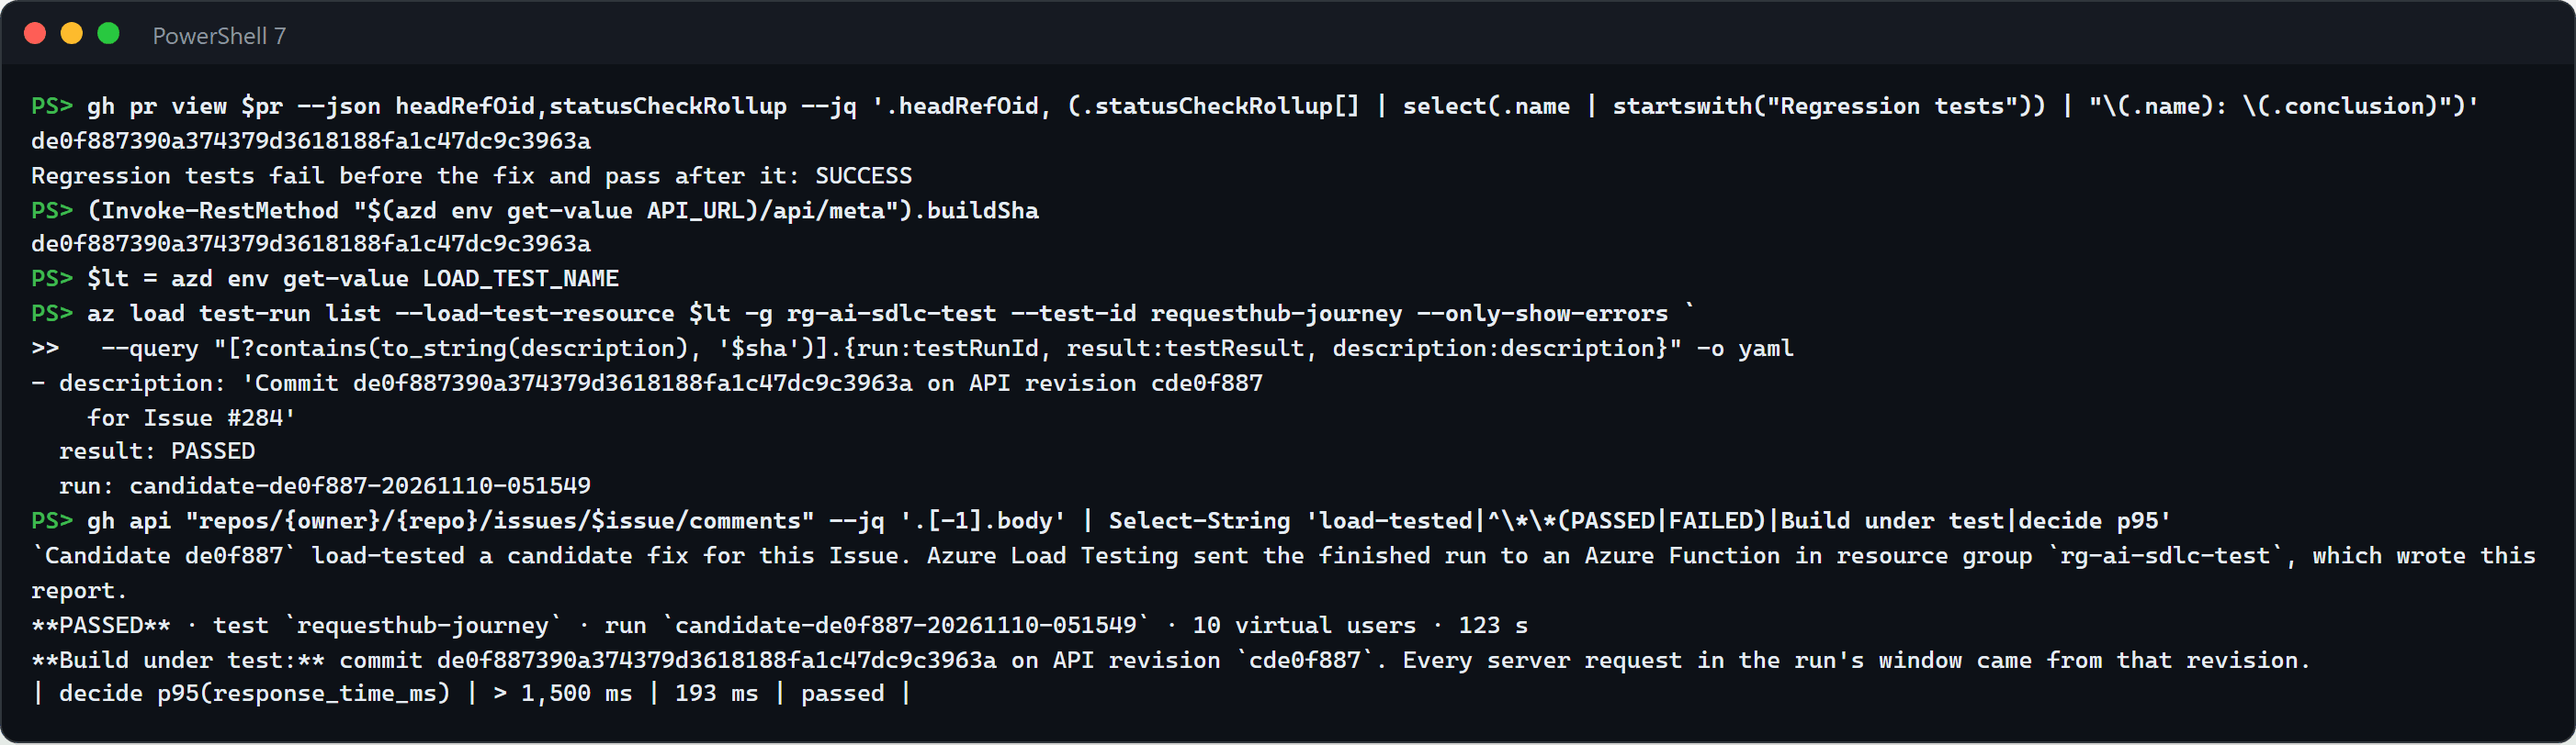
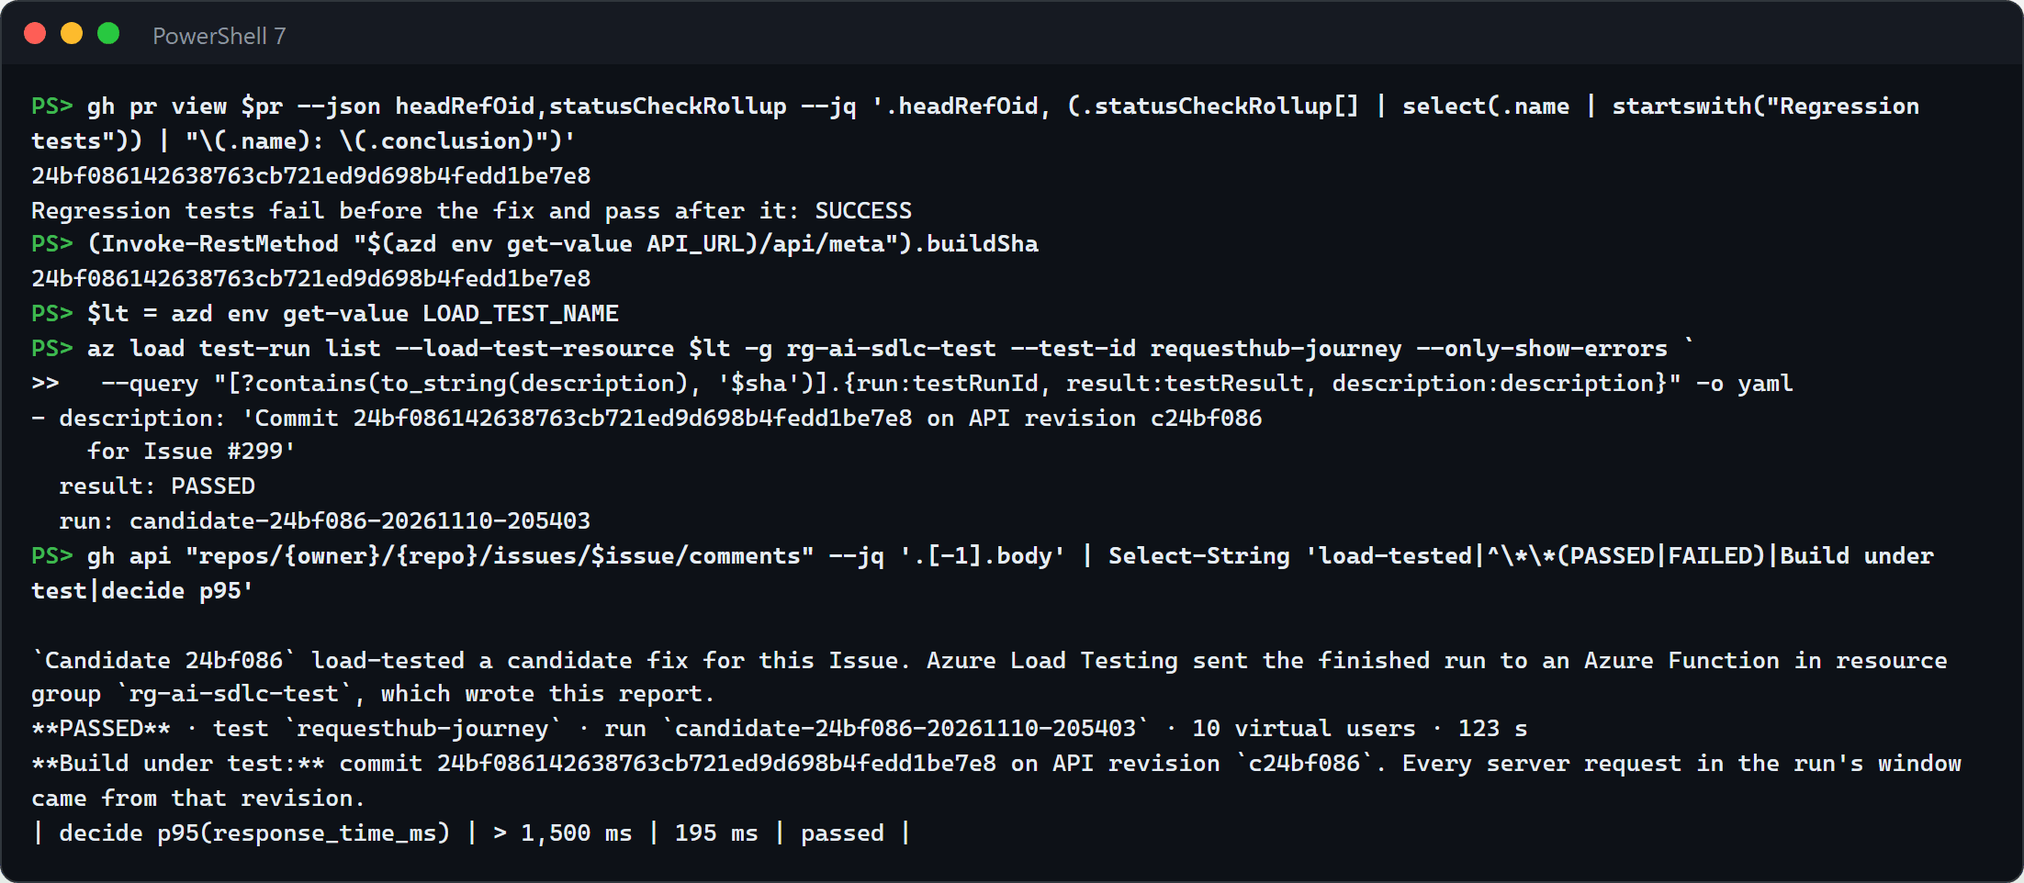
Test combo: rehearse the test lead's decision on a fresh Copilot run
Second rehearsal: Issue #299, Copilot's #300, the proof (3 of 3 tests fail at 78908821d and pass at 24bf08614), revision c24bf086, load run candidate-24bf086-20261110-205403 (PASSED, decide p95 195 ms), the report on #299, and the test lead's approval, recorded by the evidence comment. Steps 2 to 4 are re-rendered from that run's output (step 2's image still showed the line candidate.py printed before the fork check), and step 5 shows the recorded decision.

04-test-github step 4: the feature bounds run on Copilot's first commit stays waiting rather than being cancelled (seen on #300 and #303).

Changed region(s): [[0.0, 0.0924, 0.9873, 0.9544], [0.0, 0.9852, 1.0, 1.0], [0.0, 0.0308, 0.1543, 0.0616]]

diff --git a/PRESENTING.md b/PRESENTING.md
@@ -291,9 +291,9 @@ A team that lets Copilot repair defects needs two answers before it accepts a re
 - **What passes between them:** the repair commit's SHA, the pull request head that GitHub's proof passed. Azure builds that commit, deploys it as API revision `c` plus the SHA's first 7 characters, and names both in the load test run.
 - **What the person decides:** the test lead approves the repair or requests changes on the pull request, with the proof and the load report in hand. Copilot can't approve its own pull request, and Azure only reports.
 - **Evidence to show:** for one SHA: the proof check on the pull request, `/api/meta` on the deployed revision, the load test run whose description names the SHA and the revision, and the function's report on the defect Issue, which names the run, the commit, and the revision, and confirms the revision from the API's telemetry.
-- **Pilot metric:** lead time from a defect report to a repair that is both proven and load-tested: from the Issue's creation to the function's report on it, both on the Issue's timeline. Track alongside it how many repairs miss a load criterion, the performance regressions caught before review. Compare it with similar work from before the pilot. Our rehearsal measured 51 minutes from the Issue to the report, 5 of them waiting for a database that a tenant policy had stopped (measured). A target is a goal the customer sets, never a result.
+- **Pilot metric:** lead time from a defect report to a repair that is both proven and load-tested: from the Issue's creation to the function's report on it, both on the Issue's timeline. Track alongside it how many repairs miss a load criterion, the performance regressions caught before review. Compare it with similar work from before the pilot. Our two rehearsals measured 51 and 32 minutes from the Issue to the report; in the first, 5 minutes went to waiting for a database that a tenant policy had stopped (measured). A target is a goal the customer sets, never a result.
 
-**Prepare** (about 35 minutes; 30 in our run, from filing the Issue to a passing proof): both solutions' **Set up** ([04-test-github](solutions/04-test-github/README.md#set-up), [04-test-microsoft](solutions/04-test-microsoft/README.md#set-up)) and **Before each session** checklists, then 04-test-github [steps 1 and 3](solutions/04-test-github/README.md#run-the-demo): rebuild the lab branch and hand the defect Issue to Copilot. Copilot worked 25 minutes in our run, and its tests-only commit came after 6. When its session ends, approve the latest commit's workflow runs (step 4): the proof took 1 minute 6 seconds and CI 2 minutes. Note the Issue and pull request numbers. Just before the session, check that the database is `Ready` again: in our rehearsal a tenant policy stopped it 35 minutes after we started it, and the candidate revision waited until we started it again.
+**Prepare** (about 35 minutes; 30 in our first run, from filing the Issue to a passing proof): both solutions' **Set up** ([04-test-github](solutions/04-test-github/README.md#set-up), [04-test-microsoft](solutions/04-test-microsoft/README.md#set-up)) and **Before each session** checklists, then 04-test-github [steps 1 and 3](solutions/04-test-github/README.md#run-the-demo): rebuild the lab branch and hand the defect Issue to Copilot. Copilot worked 25 minutes in our first run and 11 in our second, and its tests-only commit came after 6 and 8. When its session ends, approve the latest commit's workflow runs (step 4): the proof took about a minute and CI about 2 in both runs. Note the Issue and pull request numbers. Just before the session, check that the database is `Ready` again: in our first rehearsal a tenant policy stopped it 35 minutes after we started it, and the candidate revision waited until we started it again. The screenshots of steps 2 to 5 come from our second rehearsal: Issue #299 and pull request #300.
 
 1. **The proof names the repair** (2 minutes). Show the proof check, as in 04-test-github [step 5](solutions/04-test-github/README.md#run-the-demo). Then take the head SHA that the proof passed: it is the only thing that crosses to Azure.
 
@@ -304,11 +304,11 @@ A team that lets Copilot repair defects needs two answers before it accepts a re
 
    ![The proof check's summary: 5 of 7 selected tests fail at the tests-only commit, and 7 of 7 pass at the head](solutions/04-test-github/images/05-proof-check.png)
 
-   In our run, 3 of 3 selected tests failed at the tests-only commit `9c7d686aa` and passed at the head `de0f88739`.
+   In our second run, 3 of 3 selected tests failed at the tests-only commit `78908821d` and passed at the head `24bf08614`.
 
    **Point out:** the same tests fail at one known SHA and pass at the head. That head is the commit Azure tests next.
 
-2. **Azure deploys that commit** (about 4 minutes; the image build took 2 minutes 9 seconds in our run). In `solutions/04-test-microsoft`, build the commit and deploy it as its own revision ([Optional: load-test one commit](solutions/04-test-microsoft/README.md#optional-load-test-one-commit)):
+2. **Azure deploys that commit** (about 4 minutes; 3 minutes 40 seconds in our second run, 2 minutes 13 seconds of them building the image). In `solutions/04-test-microsoft`, build the commit and deploy it as its own revision ([Optional: load-test one commit](solutions/04-test-microsoft/README.md#optional-load-test-one-commit)):
 
    ```powershell
    cd solutions/04-test-microsoft
@@ -317,23 +317,23 @@ A team that lets Copilot repair defects needs two answers before it accepts a re
 
    The script first checks that the commit is on a branch of this repository: it refuses a fork's pull request commit, which never reaches Azure. Azure Container Registry builds the commit's API image with the SHA baked in, Container Apps deploys it as revision `c` plus the SHA's first 7 characters, and the script checks that the live API reports the SHA.
 
-   ![The hand-off in a terminal: the pull request's head SHA de0f887 goes to candidate.py deploy, which builds requesthub-api for that commit in Azure Container Registry in 129 seconds, deploys it as API revision cde0f887, deactivates the previous revision, and confirms that /api/meta reports build de0f887390a3](solutions/04-test-microsoft/images/combo-02-deploy-candidate.png)
+   ![The hand-off in a terminal: the head SHA of pull request 300 goes to candidate.py deploy, which builds requesthub-api for commit 24bf08614263 in Azure Container Registry in 133 seconds, deploys it as API revision c24bf086, deactivates the previous revision, and confirms that /api/meta reports build 24bf08614263](solutions/04-test-microsoft/images/combo-02-deploy-candidate.png)
 
    **Point out:** the revision is named after the commit, and `/api/meta` on the live API reports the SHA baked into its image, not a label someone typed.
 
-3. **Azure Load Testing exercises the candidate** (under a minute to start; the verdict came 8 minutes 41 seconds after the start in our run).
+3. **Azure Load Testing exercises the candidate** (under a minute to start; the verdict came 8 minutes 39 seconds after the start in our second run).
 
    ```powershell
    python candidate.py run --issue $issue
    ```
 
-   ![candidate.py run --issue 284: load test run candidate-de0f887-20261110-051549 started against API revision cde0f887, with the description Commit de0f887390a374379d3618188fa1c47dc9c3963a on API revision cde0f887 for Issue #284](solutions/04-test-microsoft/images/combo-03-run-candidate.png)
+   ![candidate.py run --issue 299: load test run candidate-24bf086-20261110-205403 started against API revision c24bf086, with the description Commit 24bf086142638763cb721ed9d698b4fedd1be7e8 on API revision c24bf086 for Issue #299, and when the verdict and the report on the Issue will come](solutions/04-test-microsoft/images/combo-03-run-candidate.png)
 
    While it runs, open the run in the portal, as in 04-test-microsoft [step 2](solutions/04-test-microsoft/README.md#2-run-the-baseline), then Copilot's concurrency test (04-test-github step 3) and the journey's criteria (04-test-microsoft [step 1](solutions/04-test-microsoft/README.md#1-show-the-test-in-azure)): the repair locks the request on every decision, and the `decide` criterion fails the run if its 95th percentile passes 1,500 ms.
 
    **Point out:** the run's id, display name, and description name the commit and the revision, so nobody mistakes which build it measured.
 
-4. **One SHA, three records** (2 minutes; the report arrives 2 minutes 4 seconds after the verdict).
+4. **One SHA, three records** (2 minutes; the report arrived 2 minutes 1 second after the verdict in our second run).
 
    ```powershell
    gh pr view $pr --json headRefOid,statusCheckRollup --jq '.headRefOid, (.statusCheckRollup[] | select(.name | startswith("Regression tests")) | "\(.name): \(.conclusion)")'
@@ -344,17 +344,23 @@ A team that lets Copilot repair defects needs two answers before it accepts a re
    gh api "repos/{owner}/{repo}/issues/$issue/comments" --jq '.[-1].body' | Select-String 'load-tested|^\*\*(PASSED|FAILED)|Build under test|decide p95'
    ```
 
-   ![One SHA in three records: the pull request's head de0f887 with its passing proof check, /api/meta on the live API reporting the same SHA, the load test run that names it and passed, and the function's comment on Issue #284: PASSED in run candidate-de0f887-20261110-051549, commit de0f887 on API revision cde0f887 with every server request from that revision, and decide at 193 ms against 1,500 ms at the 95th percentile](solutions/04-test-microsoft/images/combo-04-one-sha.png)
+   ![One SHA in three records: the head of pull request 300, 24bf086, with its passing proof check, /api/meta on the live API reporting the same SHA, the load test run that names it and passed, and the function's comment on Issue #299: PASSED in run candidate-24bf086-20261110-205403, commit 24bf086 on API revision c24bf086 with every server request in the run's window from that revision, and decide at 195 ms against 1,500 ms at the 95th percentile](solutions/04-test-microsoft/images/combo-04-one-sha.png)
 
    Open the Issue to show the whole report: the criteria, the client and server tables, and the revision check.
 
    **Point out:** three records name one SHA: the proof on the pull request, the run in Azure, and the report on the Issue. The report doesn't take the run's word for the revision: the API's telemetry shows every request came from it.
 
-5. **The test lead decides** (2 minutes). Read the tests, the proof, and the load report, then approve the pull request or request changes as a GitHub review, and record it with 04-test-github [step 7](solutions/04-test-github/README.md#run-the-demo). Don't merge: the lab branch is rebuilt for every run.
+5. **The test lead decides** (2 minutes; in our second run the test lead approved 1 minute 51 seconds after the report arrived, and recording the decision took 13 seconds). Read the tests, the proof, and the load report, then approve the pull request or request changes (`--request-changes`) as a GitHub review, and record it with 04-test-github [step 7](solutions/04-test-github/README.md#run-the-demo), from the repository root on the lab branch, never the pull request's branch. Don't merge: the lab branch is rebuilt for every run.
 
-   ![The review comments and reviewer decision sections: Copilot's finding is listed, no comments does not mean correct, and the decision is pending](solutions/04-test-github/images/07-evidence-review.png)
+   ```powershell
+   cd ../..
+   gh pr review $pr --approve --body "<what you checked: the proof and the load run, for the head SHA>"
+   python .github/skills/review-evidence/review_evidence.py --pr $pr --comment
+   ```
 
-   **Point out:** the decision is the test lead's, made on correctness and performance evidence for the same commit.
+   ![The evidence comment on pull request 300 after the test lead's review: every check passes, 3 of 3 selected tests fail at the tests-only commit 78908821d and pass at the head 24bf08614, no Copilot code review was requested, and the reviewer decision reads approved, naming the proof and the load run](solutions/04-test-github/images/combo-05-decision-recorded.png)
+
+   **Point out:** the decision is the test lead's, made on correctness and performance evidence for the same commit, and the evidence comment records who made it.
 
    Afterwards, put the API back on its normal image with `python candidate.py restore` (about a minute), and follow 04-test-github's [Reset and clean up](solutions/04-test-github/README.md#reset-and-clean-up).
 

diff --git a/solutions/04-test-github/README.md b/solutions/04-test-github/README.md
@@ -182,7 +182,7 @@ The screenshots come from the live run with Issue #100 and pull request #101. Yo
 
    ![The pull request's merge box: four workflows awaiting approval, with the Approve workflows to run button](images/04-approve-workflows.png)
 
-   Select **Approve workflows to run**, or re-run the waiting runs of the latest commit from a terminal with `gh run rerun <run-id>` (`gh run list --branch <copilot-branch>` shows the ids and commits). The two to watch are **CI** and **Test · GitHub · prove the fix test-first**; checks from other solutions may run and pass or skip. Runs that waited on an earlier commit are cancelled when the latest commit's runs start, because they share a concurrency group. *Under a minute; the proof then takes about 2 minutes and CI about 4.* **Point out:** nothing Copilot wrote runs in Actions until a person approves it.
+   Select **Approve workflows to run**, or re-run the waiting runs of the latest commit from a terminal with `gh run rerun <run-id>` (`gh run list --branch <copilot-branch>` shows the ids and commits). The two to watch are **CI** and **Test · GitHub · prove the fix test-first**; checks from other solutions may run and pass or skip. Runs that waited on an earlier commit need no approval: most are cancelled when the latest commit's runs start, because they share a concurrency group, and the feature bounds check on Copilot's first commit, *Initial plan*, stays waiting until the pull request closes. *Under a minute; the proof then takes about 2 minutes and CI about 4.* **Point out:** nothing Copilot wrote runs in Actions until a person approves it.
 
 5. **Watch the deterministic gate.** Open the **Regression tests fail before the fix and pass after it** check and its summary:
 
